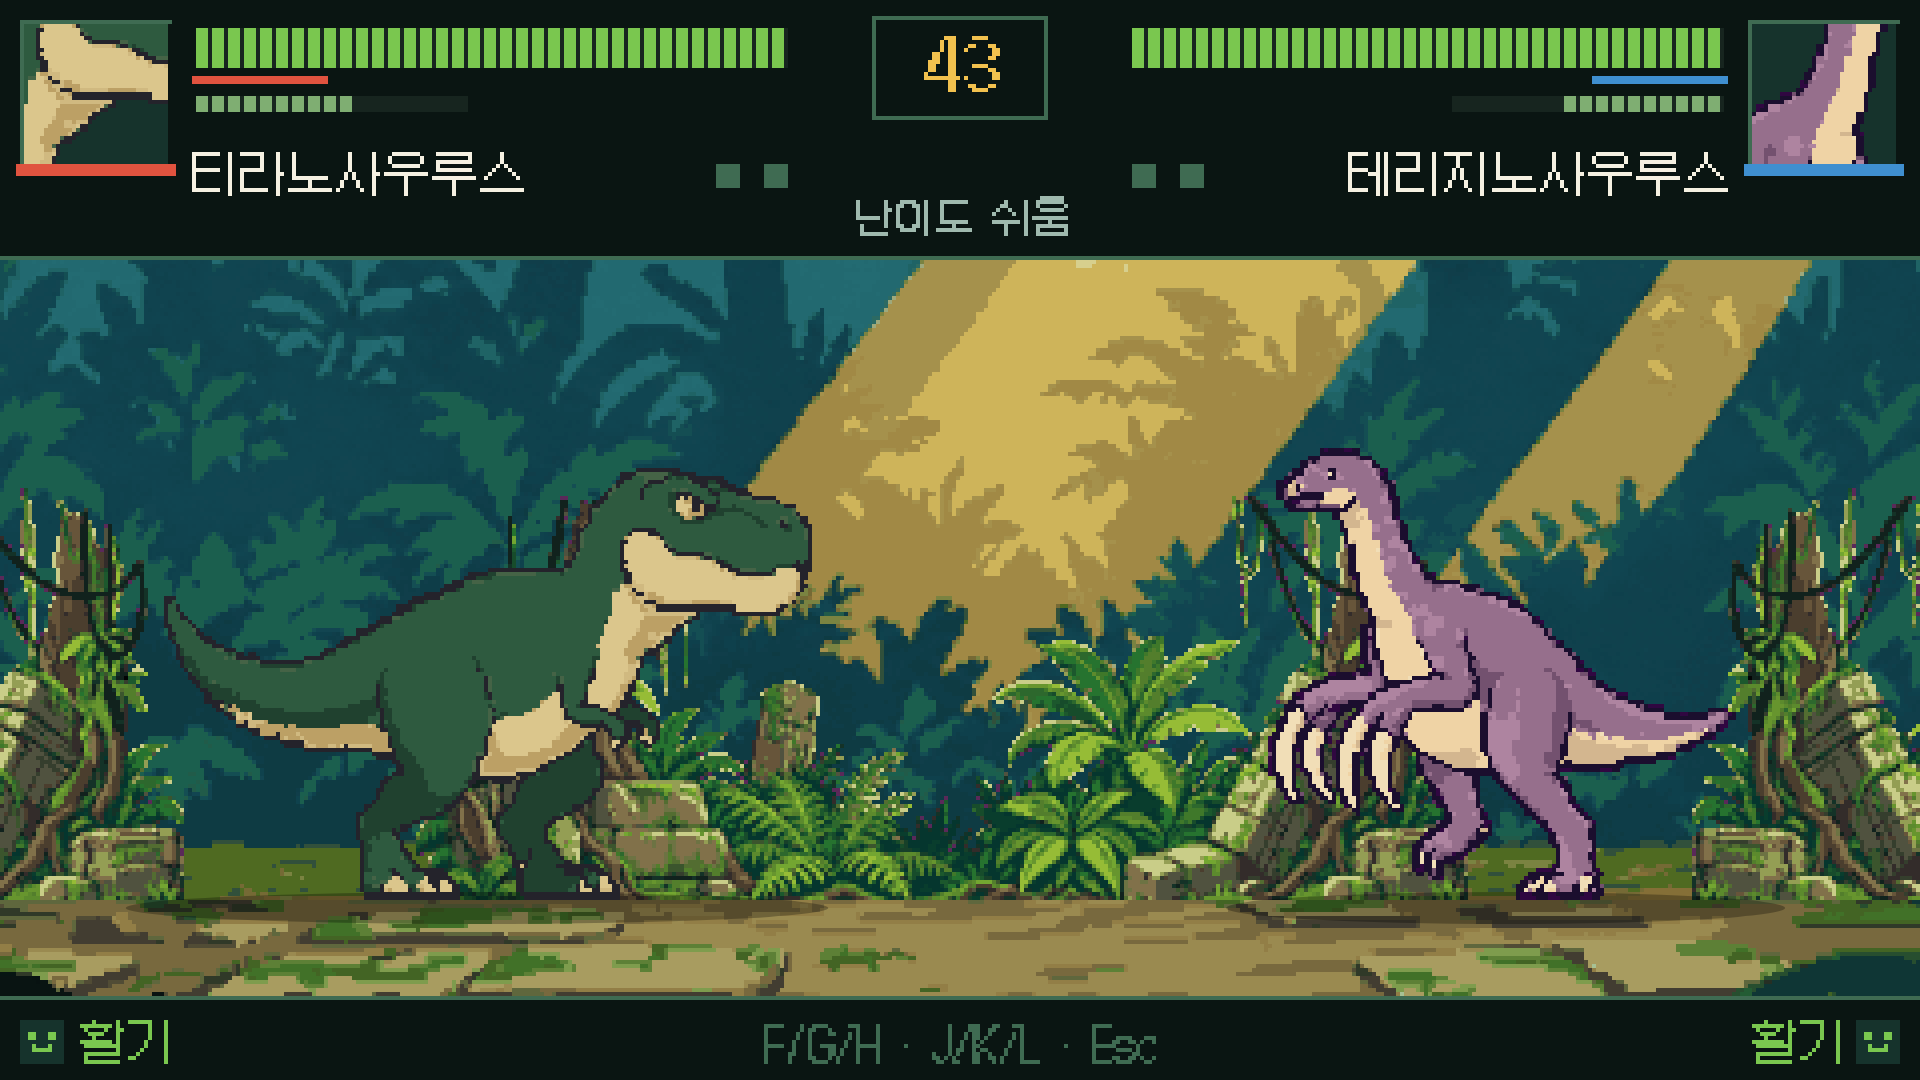
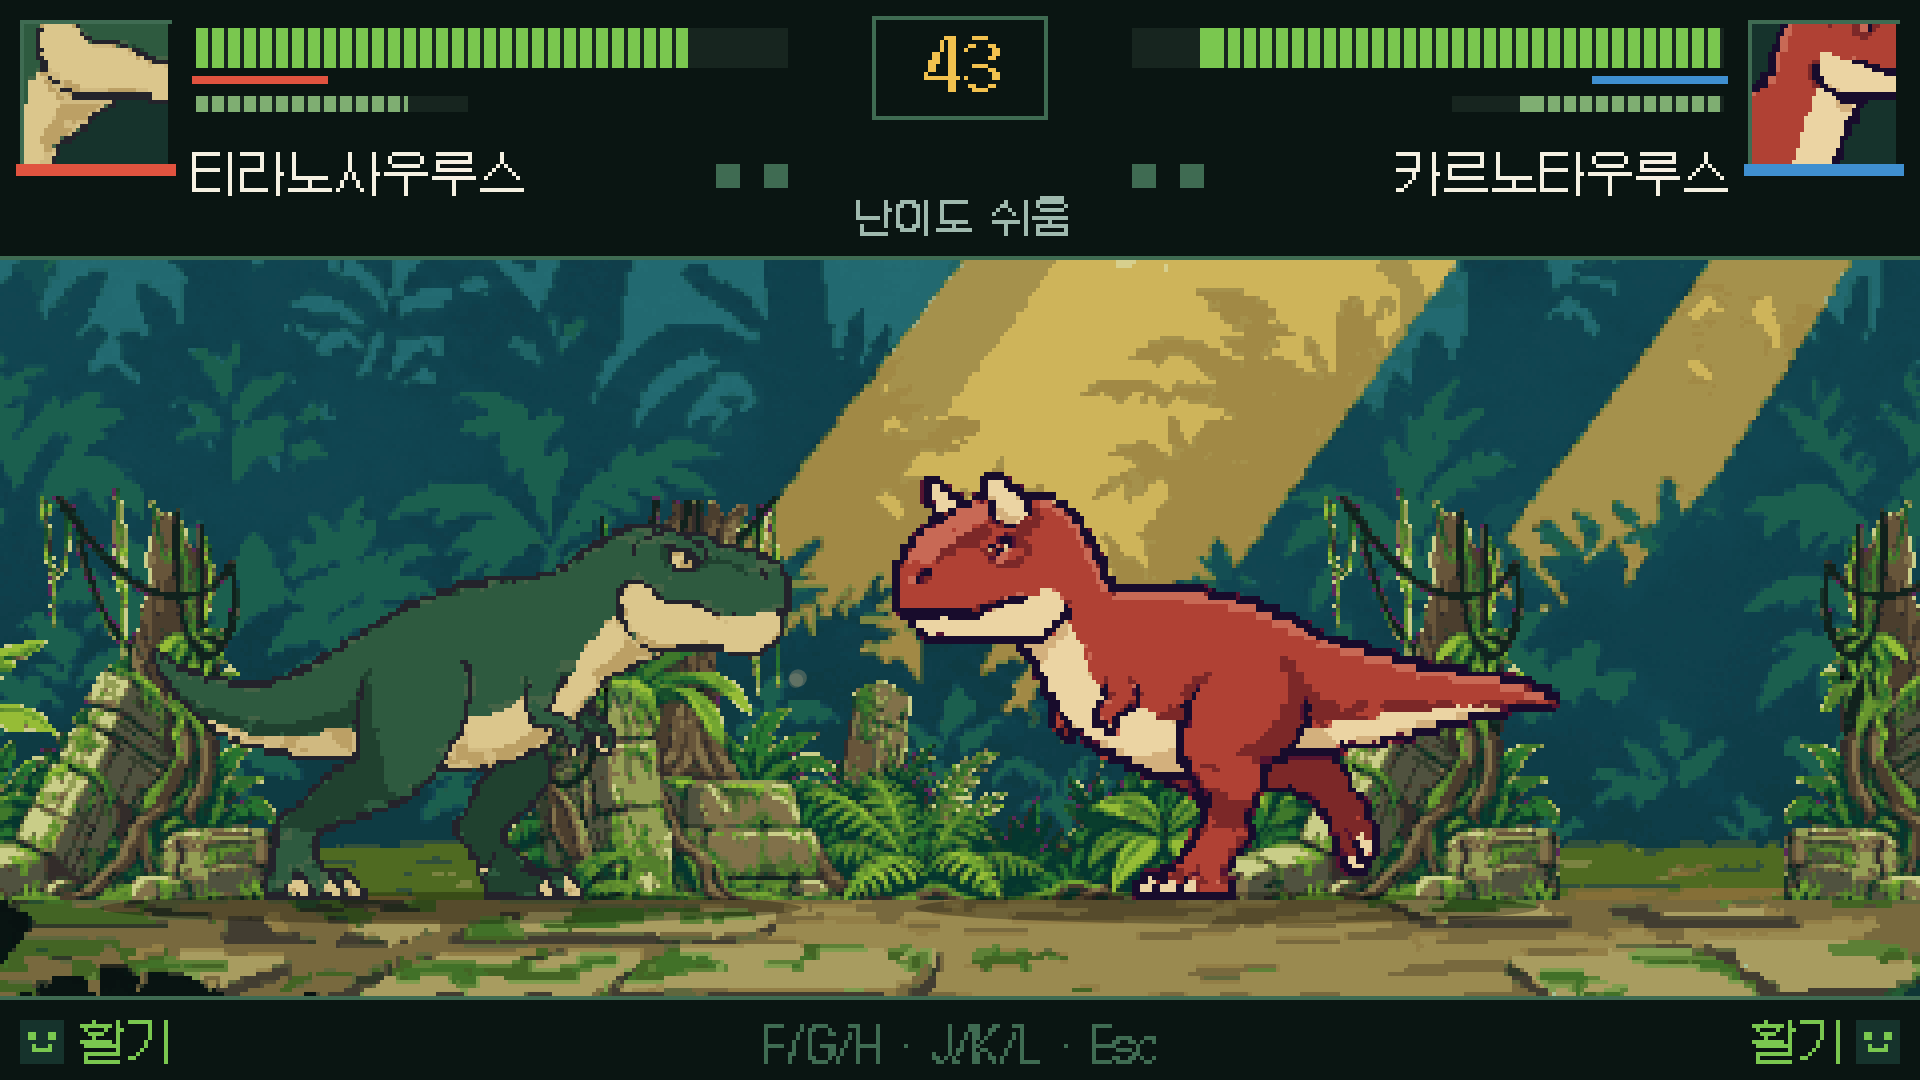
feat: 12종 × 전 기술 접촉 게이트 표 + 광역 상자 밀림 수정
- scripts/contact-gate.ts: 36행(12종×약·강·특수) 접촉 프레임·판정 앞끝·그림 주둥이·
  내민 보정·오차·손상 프레임을 재서 docs/contact-gate-20261031.md 로 남긴다. 36 PASS / 0 FAIL.
- ContactAlign.isAreaContact: 접촉 상자가 몸 뒤까지 걸친 광역·회전 기술(안킬로·브라키오·
  테리지노·트리케라 특수)에서 그림을 2168~2396px 밀던 문제 수정 → 보정 0, 그림이 화면 밖으로
  나가지 않는다. 회귀 테스트 3건 추가.
- 테스트 753 통과, build:pilot 성공, 캡처 3장(타이틀·캐릭터 선택·대전) evidence-dot-font/.

diff --git a/scripts/contact-gate.ts b/scripts/contact-gate.ts
@@ -1,0 +1,188 @@
+/**
+ * 12종 × 전 기술(약·강·특수) 접촉 게이트 표 (2026-10-31).
+ *
+ * 목적(게임 제작 마스터 지시 8112350): "1개라도 실패면 배포 반려".
+ * 그림→판정 정합(ContactAlign)이 실제로 성립하는지 종·기술 단위로 재서 표로 남긴다.
+ *
+ * 행 하나 = (공룡, 기술) 한 쌍. 재는 값:
+ *  - 접촉 프레임: 기술이 처음 판정을 내는 프레임(ContactAlign.contactFrame)
+ *  - 판정 앞끝: 몸 앞끝 + 상자 x + 폭 (화면 px)
+ *  - 그림 주둥이: 그 프레임 스프라이트의 불투명 경계 오른끝 × 배율 (화면 px)
+ *  - 내민 보정: 그 프레임에 실제로 적용되는 ContactAlign 보정 (화면 px)
+ *  - 오차: (주둥이 + 보정) − 판정 앞끝. |오차| ≤ 4px(1아트px)면 PASS.
+ *  - 명중: 최소 간격에서 그 기술이 실제로 피해를 넣었는가.
+ *
+ * 실행: npx vite-node scripts/contact-gate.ts
+ */
+import { readFileSync, writeFileSync } from 'node:fs';
+import { FIXED_DT, ROUND_INTRO_FRAMES } from '../src/core/constants';
+import { CHARACTERS } from '../src/data';
+import { Match } from '../src/combat/Match';
+import { ScriptInput } from '../src/combat/ScriptInput';
+import type { CharacterAssets } from '../src/rendering/CharacterAssets';
+import type { RigData } from '../src/rendering/rig';
+import { parseSpriteManifest, type SpriteManifest, type SpriteState } from '../src/rendering/pixel/SpeciesSprite';
+import { contactFrame, contactFront, contactGap, contactTipArt, isAreaContact } from '../src/rendering/pixel/ContactAlign';
+import { PIXEL_ART_SCALE } from '../src/rendering/pixel/PixelBackground';
+import type { AttackKind } from '../src/combat/types';
+
+const ROOT = 'dev-art/species';
+const TOLERANCE = PIXEL_ART_SCALE; // 1 아트 px
+
+interface Row {
+  species: string;
+  name: string;
+  kind: AttackKind;
+  state: SpriteState;
+  contactFrame: number;
+  front: number;
+  tip: number;
+  push: number;
+  delta: number;
+  hit: boolean;
+  hitFrame: number;
+  area: boolean;
+  pass: boolean;
+}
+
+function folders(): Record<string, string> {
+  const index = JSON.parse(readFileSync(`${ROOT}/index.json`, 'utf8')) as {
+    species: Record<string, { character: string }>;
+  };
+  const map: Record<string, string> = {};
+  for (const [folder, entry] of Object.entries(index.species)) map[entry.character] = folder;
+  return map;
+}
+
+function manifestOf(id: string, map: Record<string, string>): SpriteManifest {
+  return parseSpriteManifest(JSON.parse(readFileSync(`${ROOT}/${map[id]}/manifest.json`, 'utf8')));
+}
+
+function assetsOf(id: string): CharacterAssets {
+  const rig = JSON.parse(readFileSync(`public/assets/characters/${id}/rig.json`, 'utf8')) as RigData;
+  return { id, rig, master: null, portrait: null, poses: {} };
+}
+
+function stateFor(kind: AttackKind): SpriteState {
+  return kind === 'heavy' ? 'strong' : kind === 'special' ? 'special' : 'light';
+}
+
+/**
+ * 최소 간격에서 그 기술을 내고 접촉 프레임의 그림·판정·보정을 잰다.
+ *
+ * 보정값은 엔진과 같은 식으로 접촉 프레임에서 계산한다:
+ *   contactOffsetArt = round(contactGap / 아트px) × 아트px, 접촉 프레임의 램프는 1.
+ * (엔진을 프레임마다 훔쳐보는 방식은 특수기 컷인·히트스톱에서 프레임이 건너뛰어 부정확했다.)
+ */
+function measure(id: string, kind: AttackKind, manifest: SpriteManifest): Row {
+  const match = new Match('versus', [id, id], [assetsOf(id), assetsOf(id)]);
+  const idle = new ScriptInput();
+  for (let i = 0; i < ROUND_INTRO_FRAMES; i++) match.step(idle, FIXED_DT);
+
+  match.p1.x = 700;
+  match.p2.x = 700 + (match.p1.bodyWidth + match.p2.bodyWidth) / 2;
+  match.p1.meter = 100;
+
+  const move = match.p1.moves[kind];
+  const front = contactFront(move, match.p1.bodyFront);
+  const tip = contactTipArt(manifest, kind, move) * PIXEL_ART_SCALE;
+  const area = isAreaContact(move, match.p1.bodyFront);
+  const gap = contactGap(match.p1, move, manifest);
+  const push = area ? 0 : Math.round(gap / PIXEL_ART_SCALE) * PIXEL_ART_SCALE;
+  const delta = tip + push - front;
+
+  const input = new ScriptInput();
+  input.press(0, kind);
+  match.step(input, FIXED_DT);
+  input.clearPressed();
+  let hit = false;
+  let hitFrame = -1;
+  for (let i = 0; i < 160; i++) {
+    const health = match.p2.health;
+    match.step(input, FIXED_DT);
+    if (!hit && match.p2.health < health) {
+      hit = true;
+      hitFrame = match.p1.attack ? match.p1.attack.frame : -1;
+    }
+  }
+
+  return {
+    species: id,
+    name: '',
+    kind,
+    state: stateFor(kind),
+    contactFrame: contactFrame(move),
+    front,
+    tip,
+    push,
+    delta,
+    hit,
+    hitFrame,
+    area,
+    pass: hit && (area ? push === 0 : Math.abs(delta) <= TOLERANCE),
+  };
+}
+
+function main(): void {
+  const map = folders();
+  const rows: Row[] = [];
+  for (const character of CHARACTERS) {
+    const manifest = manifestOf(character.id, map);
+    for (const kind of ['light', 'heavy', 'special'] as const) {
+      const row = measure(character.id, kind, manifest);
+      row.name = character.name;
+      rows.push(row);
+    }
+  }
+
+  const f = (n: number): string => (Number.isFinite(n) ? String(Math.round(n)) : '—');
+  const lines: string[] = [];
+  lines.push('# 12종 × 전 기술 접촉 게이트 (2026-10-31)');
+  lines.push('');
+  lines.push(`- 단위: 화면 px (1 아트 px = ${PIXEL_ART_SCALE}px). 허용 오차 |오차| ≤ ${TOLERANCE}px.`);
+  lines.push('- 판정 앞끝 = 몸 앞끝 + 상자 x + 폭 · 그림 주둥이 = 접촉 프레임 불투명 경계 오른끝 × 배율');
+  lines.push('- 내민 보정 = 접촉 프레임에 ContactAlign 이 적용하는 값(피해·사거리 수치는 불변)');
+  lines.push('- 명중 = 최소 간격에서 그 기술이 실제 피해를 넣었는가');
+  lines.push('- 광역 = 접촉 상자가 몸 뒤까지 걸친 회전·광역 기술(앞끝이 사거리가 아니다) → 그림을 밀지 않는 것이 통과 조건');
+  lines.push('');
+  lines.push('| # | 공룡 | 기술 | 접촉f | 판정앞끝 | 그림주둥이 | 내민보정 | 오차 | 명중 | 판정 |');
+  lines.push('|---:|---|---|---:|---:|---:|---:|---:|---|---|');
+  rows.forEach((r, i) => {
+    const label = r.kind === 'light' ? '약' : r.kind === 'heavy' ? '강' : '특수';
+    const err = r.area ? '광역' : `${r.delta >= 0 ? '+' : ''}${f(r.delta)}`;
+    lines.push(
+      `| ${i + 1} | ${r.name} | ${label} | ${r.contactFrame} | ${f(r.front)} | ${f(r.tip)} | ${f(r.push)} | `
+      + `${err} | ${r.hit ? `O(f${r.hitFrame})` : 'X'} | ${r.pass ? 'PASS' : (r.area ? 'FAIL(밀림)' : 'FAIL')} |`,
+    );
+  });
+  // 참고: 피해가 실제로 들어간 프레임이 접촉 프레임과 다른 행(잡기·물고 흔들기·던지기 계열).
+  const lateHit = rows.filter((r) => r.hit && r.hitFrame >= 0 && r.hitFrame - r.contactFrame > 2);
+  if (lateHit.length > 0) {
+    lines.push('');
+    lines.push('## 참고: 손상 프레임이 접촉 프레임보다 늦은 행');
+    lines.push('피해는 이벤트(던지기·흔들기 마무리)에서 들어가고, 그림 정합은 접촉 프레임 기준이다.');
+    lines.push('연출상 "닿는 순간"과 "체력이 줄어드는 순간"이 다른 행이므로 눈으로 확인할 목록.');
+    for (const r of lateHit) {
+      const label = r.kind === 'light' ? '약' : r.kind === 'heavy' ? '강' : '특수';
+      lines.push(`- ${r.name} ${label}: 접촉 f${r.contactFrame} → 손상 f${r.hitFrame}`);
+    }
+  }
+  const failed = rows.filter((r) => !r.pass);
+  lines.push('');
+  lines.push(`총 ${rows.length}행 · PASS ${rows.length - failed.length} · FAIL ${failed.length}`);
+  if (failed.length > 0) {
+    lines.push('');
+    lines.push('## FAIL');
+    for (const r of failed) {
+      const label = r.kind === 'light' ? '약' : r.kind === 'heavy' ? '강' : '특수';
+      lines.push(`- ${r.name} ${label}: ${r.area ? `광역 상자인데 그림을 ${f(r.push)}px 밀었다` : `오차 ${f(r.delta)}px`}, 명중 ${r.hit ? 'O' : 'X'}`);
+    }
+  }
+  const table = lines.join('\n');
+  console.log(table);
+  writeFileSync('docs/contact-gate-20261031.md', `${table}\n`);
+  console.log('\n→ docs/contact-gate-20261031.md');
+  if (failed.length > 0) process.exitCode = 1;
+}
+
+main();

diff --git a/src/rendering/pixel/contactFrames.test.ts b/src/rendering/pixel/contactFrames.test.ts
@@ -7,7 +7,7 @@ import type { RigData } from '../rig';
 import { Match } from '../../combat/Match';
 import { ScriptInput } from '../../combat/ScriptInput';
 import { parseSpriteManifest, type SpriteManifest } from './SpeciesSprite';
-import { contactFront, contactOffsetArt, contactTipArt } from './ContactAlign';
+import { contactFront, contactGap, contactOffsetArt, contactTipArt, isAreaContact } from './ContactAlign';
 import { PIXEL_ART_SCALE } from './PixelBackground';
 
 /**
@@ -197,6 +197,63 @@ describe('공격 판정 정합(그림 → 판정)', () => {
     expect(contactOffsetArt(match.p1, match.p1.moves.light, manifest)).toBe(0);
     // 회수 구간에서 보정이 줄어든다(단조 증가만 하지 않는다).
     expect(offsets[offsets.length - 1]).toBeLessThan(peak);
+  });
+});
+
+
+describe('12종 × 전 기술 접촉 게이트(그림 → 판정)', () => {
+  const map = folders();
+
+  it('접촉 프레임에서 그림 주둥이 + 보정 = 판정 앞끝 (±1아트px)', () => {
+    const off: string[] = [];
+    for (const character of CHARACTERS) {
+      const manifest = manifestOf(character.id, map);
+      const match = new Match('versus', [character.id, character.id], [realAssets(character.id), realAssets(character.id)]);
+      const idle = new ScriptInput();
+      for (let i = 0; i < ROUND_INTRO_FRAMES; i++) match.step(idle, FIXED_DT);
+      for (const kind of ['light', 'heavy', 'special'] as const) {
+        const move = match.p1.moves[kind];
+        if (isAreaContact(move, match.p1.bodyFront)) continue;
+        const front = contactFront(move, match.p1.bodyFront);
+        const tip = contactTipArt(manifest, kind, move) * PIXEL_ART_SCALE;
+        const push = Math.round(contactGap(match.p1, move, manifest) / PIXEL_ART_SCALE) * PIXEL_ART_SCALE;
+        const delta = tip + push - front;
+        if (Math.abs(delta) > PIXEL_ART_SCALE) off.push(`${character.id}/${kind} ${delta.toFixed(1)}px`);
+      }
+    }
+    expect(off).toEqual([]);
+  });
+
+  it('광역 상자 기술은 그림을 밀지 않는다(몸이 화면 밖으로 나가지 않게)', () => {
+    const pushed: string[] = [];
+    for (const character of CHARACTERS) {
+      const manifest = manifestOf(character.id, map);
+      const match = new Match('versus', [character.id, character.id], [realAssets(character.id), realAssets(character.id)]);
+      const idle = new ScriptInput();
+      for (let i = 0; i < ROUND_INTRO_FRAMES; i++) match.step(idle, FIXED_DT);
+      for (const kind of ['light', 'heavy', 'special'] as const) {
+        const move = match.p1.moves[kind];
+        if (!isAreaContact(move, match.p1.bodyFront)) continue;
+        match.p1.state = 'attack';
+        match.p1.attack = { move, frame: 999 } as unknown as typeof match.p1.attack;
+        const offset = contactOffsetArt(match.p1, move, manifest);
+        if (offset !== 0) pushed.push(`${character.id}/${kind} ${offset}아트px`);
+      }
+      match.p1.state = 'idle';
+      match.p1.attack = null;
+    }
+    expect(pushed).toEqual([]);
+  });
+
+  it('브라키오·안킬로·테리지노·트리케라 특수가 광역 상자로 분류된다', () => {
+    const area: string[] = [];
+    for (const character of CHARACTERS) {
+      const match = new Match('versus', [character.id, 'tyrannosaurus'], [realAssets(character.id), realAssets('tyrannosaurus')]);
+      const idle = new ScriptInput();
+      for (let i = 0; i < ROUND_INTRO_FRAMES; i++) match.step(idle, FIXED_DT);
+      if (isAreaContact(match.p1.moves.special, match.p1.bodyFront)) area.push(character.id);
+    }
+    expect(area.sort()).toEqual(['ankylosaurus', 'brachiosaurus', 'therizinosaurus', 'triceratops']);
   });
 });
 

diff --git a/src/rendering/pixel/ContactAlign.ts b/src/rendering/pixel/ContactAlign.ts
@@ -43,6 +43,22 @@ export function contactFront(move: MoveData, bodyFront: number): number {
   return Math.max(...windows.map((hit) => bodyFront + hit.box.x + hit.box.w));
 }
 
+/**
+ * 접촉 프레임 상자가 몸 뒤쪽까지 걸친 광역·회전 기술인가.
+ *
+ * 이런 기술(브라키오·안킬로·테리지노·트리케라 특수)은 상자 폭이 400~4800px이고 뒤끝이 몸 중심보다
+ * 뒤에 있다. 상자 '앞끝'은 사거리가 아니라 판정 범위의 오른쪽 끝일 뿐이라, 그림을 그 끝까지 밀면
+ * 몸이 화면 밖으로 날아간다(브라키오 특수 2574px · 안킬로 특수 2136px 실측).
+ * 그림 내밀기는 앞으로 뻗는 기술에만 적용한다.
+ */
+export function isAreaContact(move: MoveData, bodyFront: number): boolean {
+  const frame = contactFrame(move);
+  const hits = (move.script?.hits ?? []) as ScriptHitWindow[];
+  return hits
+    .filter((hit) => !!hit.box && hit.target !== 'held')
+    .some((hit) => hit.from === frame && bodyFront + hit.box.x <= 0);
+}
+
 /** 접촉 프레임에 그려지는 그림의 주둥이 끝(아트 px, 중심 기준). */
 export function contactTipArt(manifest: SpriteManifest, kind: AttackKind, move: MoveData): number {
   const state = stateFor(kind);
@@ -56,6 +72,8 @@ export function contactTipArt(manifest: SpriteManifest, kind: AttackKind, move: 
 
 /** 접촉 순간에 그림을 얼마나 앞으로 내밀어야 하는가(화면 px, facing=1 기준). */
 export function contactGap(fighter: Fighter, move: MoveData, manifest: SpriteManifest): number {
+  // 광역·회전 상자는 '앞끝'이 사거리가 아니므로 그림을 밀지 않는다(몸이 화면 밖으로 나간다).
+  if (isAreaContact(move, fighter.bodyFront)) return 0;
   return contactFront(move, fighter.bodyFront) - contactTipArt(manifest, move.kind, move) * PIXEL_ART_SCALE;
 }
 

diff --git a/docs/contact-gate-20261031.md b/docs/contact-gate-20261031.md
@@ -1,0 +1,57 @@
+# 12종 × 전 기술 접촉 게이트 (2026-10-31)
+
+- 단위: 화면 px (1 아트 px = 4px). 허용 오차 |오차| ≤ 4px.
+- 판정 앞끝 = 몸 앞끝 + 상자 x + 폭 · 그림 주둥이 = 접촉 프레임 불투명 경계 오른끝 × 배율
+- 내민 보정 = 접촉 프레임에 ContactAlign 이 적용하는 값(피해·사거리 수치는 불변)
+- 명중 = 최소 간격에서 그 기술이 실제 피해를 넣었는가
+- 광역 = 접촉 상자가 몸 뒤까지 걸친 회전·광역 기술(앞끝이 사거리가 아니다) → 그림을 밀지 않는 것이 통과 조건
+
+| # | 공룡 | 기술 | 접촉f | 판정앞끝 | 그림주둥이 | 내민보정 | 오차 | 명중 | 판정 |
+|---:|---|---|---:|---:|---:|---:|---:|---|---|
+| 1 | 티라노사우루스 | 약 | 6 | 441 | 308 | 132 | -1 | O(f6) | PASS |
+| 2 | 티라노사우루스 | 강 | 14 | 451 | 236 | 216 | +1 | O(f41) | PASS |
+| 3 | 티라노사우루스 | 특수 | 50 | 471 | 280 | 192 | +1 | O(f22) | PASS |
+| 4 | 트리케라톱스 | 약 | 8 | 454 | 268 | 188 | +2 | O(f8) | PASS |
+| 5 | 트리케라톱스 | 강 | 14 | 454 | 200 | 256 | +2 | O(f52) | PASS |
+| 6 | 트리케라톱스 | 특수 | 16 | 554 | 232 | 0 | 광역 | O(f16) | PASS |
+| 7 | 벨로키랍토르 | 약 | 5 | 385 | 236 | 148 | -1 | O(f5) | PASS |
+| 8 | 벨로키랍토르 | 강 | 20 | 385 | 176 | 208 | -1 | O(f20) | PASS |
+| 9 | 벨로키랍토르 | 특수 | 11 | 485 | 288 | 196 | -1 | O(f12) | PASS |
+| 10 | 스피노사우루스 | 약 | 8 | 491 | 308 | 184 | +1 | O(f8) | PASS |
+| 11 | 스피노사우루스 | 강 | 12 | 501 | 228 | 272 | -1 | O(f12) | PASS |
+| 12 | 스피노사우루스 | 특수 | 41 | 541 | 320 | 220 | -1 | O(f41) | PASS |
+| 13 | 안킬로사우루스 | 약 | 9 | 518 | 324 | 192 | -2 | O(f9) | PASS |
+| 14 | 안킬로사우루스 | 강 | 14 | 568 | 212 | 356 | +0 | O(f14) | PASS |
+| 15 | 안킬로사우루스 | 특수 | 80 | 2448 | 280 | 0 | 광역 | O(f80) | PASS |
+| 16 | 스테고사우루스 | 약 | 8 | 495 | 304 | 192 | +1 | O(f8) | PASS |
+| 17 | 스테고사우루스 | 강 | 14 | 505 | 216 | 288 | -1 | O(f24) | PASS |
+| 18 | 스테고사우루스 | 특수 | 24 | 565 | 336 | 228 | -1 | O(f72) | PASS |
+| 19 | 카르노타우루스 | 약 | 8 | 402 | 300 | 100 | -2 | O(f8) | PASS |
+| 20 | 카르노타우루스 | 강 | 10 | 412 | 196 | 216 | +0 | O(f10) | PASS |
+| 21 | 카르노타우루스 | 특수 | 31 | 492 | 340 | 152 | +0 | O(f31) | PASS |
+| 22 | 파키케팔로사우루스 | 약 | 8 | 372 | 208 | 164 | +0 | O(f8) | PASS |
+| 23 | 파키케팔로사우루스 | 강 | 19 | 412 | 160 | 252 | +0 | O(f19) | PASS |
+| 24 | 파키케팔로사우루스 | 특수 | 42 | 412 | 252 | 160 | +0 | O(f43) | PASS |
+| 25 | 테리지노사우루스 | 약 | 9 | 489 | 212 | 276 | -1 | O(f9) | PASS |
+| 26 | 테리지노사우루스 | 강 | 11 | 489 | 188 | 300 | -1 | O(f11) | PASS |
+| 27 | 테리지노사우루스 | 특수 | 14 | 662 | 252 | 0 | 광역 | O(f14) | PASS |
+| 28 | 딜로포사우루스 | 약 | 6 | 343 | 220 | 124 | +1 | O(f6) | PASS |
+| 29 | 딜로포사우루스 | 강 | 14 | 523 | 192 | 332 | +1 | O(f14) | PASS |
+| 30 | 딜로포사우루스 | 특수 | 20 | 383 | 296 | 88 | +1 | O(f20) | PASS |
+| 31 | 브라키오사우루스 | 약 | 12 | 902 | 384 | 516 | -2 | O(f12) | PASS |
+| 32 | 브라키오사우루스 | 강 | 23 | 562 | 240 | 320 | -2 | O(f23) | PASS |
+| 33 | 브라키오사우루스 | 특수 | 46 | 2802 | 404 | 0 | 광역 | O(f46) | PASS |
+| 34 | 프테라노돈 | 약 | 6 | 242 | 200 | 44 | +2 | O(f6) | PASS |
+| 35 | 프테라노돈 | 강 | 24 | 272 | 176 | 96 | 0 | O(f25) | PASS |
+| 36 | 프테라노돈 | 특수 | 24 | 292 | 204 | 88 | 0 | O(f80) | PASS |
+
+## 참고: 손상 프레임이 접촉 프레임보다 늦은 행
+피해는 이벤트(던지기·흔들기 마무리)에서 들어가고, 그림 정합은 접촉 프레임 기준이다.
+연출상 "닿는 순간"과 "체력이 줄어드는 순간"이 다른 행이므로 눈으로 확인할 목록.
+- 티라노사우루스 강: 접촉 f14 → 손상 f41
+- 트리케라톱스 강: 접촉 f14 → 손상 f52
+- 스테고사우루스 강: 접촉 f14 → 손상 f24
+- 스테고사우루스 특수: 접촉 f24 → 손상 f72
+- 프테라노돈 특수: 접촉 f24 → 손상 f80
+
+총 36행 · PASS 36 · FAIL 0
